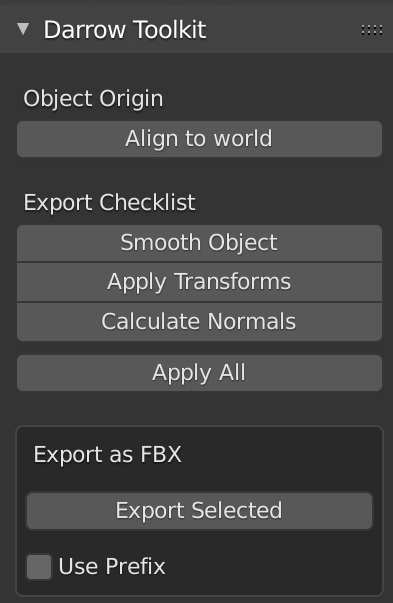
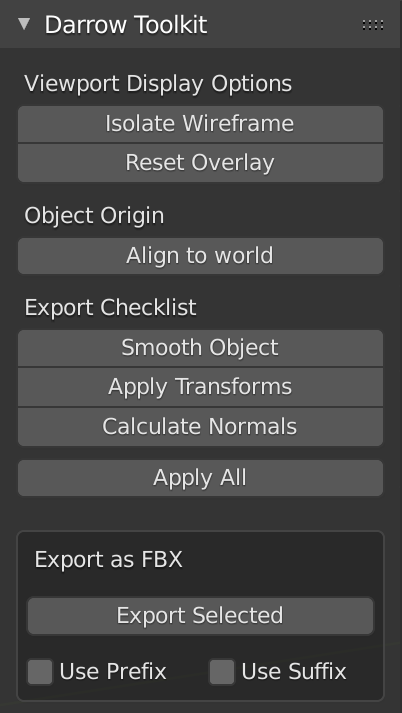
Updated for new toolkit release
Added new images, text, and gifs to showcase the new features.
Additionally, the "download" button now takes the user to the github repo.

diff --git a/index.html b/index.html
@@ -14,17 +14,14 @@
 	
 	<nav class="navbar">
 	   <h2 style="float:center">Darrow Toolkit: Blender</h2>
-
 	</nav>
 
 
 <div class="jumbotron">
   <div class="container">
-  
 	 <p>For Blender 2.8 +</p>
-    <h1>Export Helper</h1>      
-    <div class="box"><a href="https://github.com/BlakeDarrow/darrow_toolkit/blob/main/Darrow_Toolkit/Packaged/darrow_toolkit_0-6.zip?raw=true" target="_blank"><p>Download</p></a></div>
-	
+    <h1>Darrow Toolkit</h1>      
+    <div class="box"><a href="https://github.com/BlakeDarrow/darrow_toolkit" target="_blank"><p>Download</p></a></div>
   </div>
 </div>
 
@@ -32,7 +29,7 @@
 	<div class="col-md-12 col-lg-6">
 		<div class="duo">
 			<h1>Auto Naming</h1>
-			<p>With this simple menu addon, exporting has never been easier! Export selected mesh as an FBX, using the mesh's name as the export name- <strong>no typing required!</strong></p>
+			<p>With this simple menu addon, exporting has never been easier! Export selected mesh as an FBX, using the mesh- <strong>no typing required!</strong></p>
 		</div>
 	</div>
 	<div class="col-md-12 col-lg-6">
@@ -40,7 +37,6 @@
 			<h1>Export Checklist</h1>
 			<p>Do you sometimes forget the steps involved before you export a mesh? Now with this addon, there is a one-stop menu to remind you!</p>
 		</div>
-		
 	</div>
 	
 </div>
@@ -51,33 +47,58 @@
 <div class="jumbotron">
   <div class="container">
   <h1>Hassle Free!</h1>
-	 <p>This simple tool allows you to not worry about all those pesky settings, or even typing! All you do is select your mesh, hit "Export Selected", navigate to the file destination in the pop-up, and hit export!</p>   
-
+	 <p>This simple tool allows you to not worry about all those pesky settings, or even typing! All you do is select your mesh, hit "Export Selected", navigate to the file destination in the pop-up, and hit export!</p> 
   </div>
 </div>
+
+<div class="container2">
+	<div class="col-lg-12">
+		<div class="large">
+		<img src="pics/export_showcase.GIF" alt="viewport_overlay">
+		</div>
+	</div>
+</div>
+
+<div class="container">
+	<div class="col-lg-6">
+		<div class="duo3">
+			<h1>Wireframe Showcase</h1>
+			<p>Showcase your models with a quick wireframe overlay.</p>
+<img src="pics/viewport_overlay.GIF" alt="viewport_overlay">
+		</div>
+	</div>
+	<div class="col-lg-6">
+		<div class="duo3">
+			<h1>Export Checklist</h1>
+			<p>Never forget what you need to do before exporting again!</p>
+<img src="pics/checklist_apply.GIF" alt="viewport_overlay">
+		</div>
+	</div>
+</div>
+	
 <div class="container">
 	<div class="col-sm-12 col-md-6 col-lg-4">
 		<div class="tri">
 			<h1>Toolbar Menu</h1>
-			<p> Checklist reminder before you export.</p>
+			<p>Overview of avaible options.</p>
 <img src="pics/Menu_1.PNG" alt="Menu UI">
 		</div>
 	</div>
 	<div class="col-md-6 col-lg-4">
 		<div class="tri">
-			<h1>Blend Prefix</h1>
-			<p> Export with .blend* prefix.</p>
+			<h1>Custom Prefix</h1>
+			<p> Export with a custom prefix or the .blend* name.</p>
 <img src="pics/Menu_2.PNG" alt="Menu UI">
 		</div>
 	</div>
 	<div class="col-md-12 col-lg-4">
 		<div class="tri">
-			<h1>Custom Prefix</h1>
-			<p>Export with a custom prefix.</p>
+			<h1>Custom Suffix</h1>
+			<p>Export with a custom counting suffix.</p>
 <img src="pics/Menu_3.PNG" alt="Menu UI">
 		</div>
 	</div>
-	
+
 </div>
 
 <br>

diff --git a/style.css b/style.css
@@ -114,6 +114,64 @@ body {
 		
 	}
 
+	.container2 {
+		clear: both;
+		width:100%;
+		text-align: center;
+		margin-top:60px;
+		font-family: 'Inter', sans-serif;
+	}
+
+	.container2 .large {
+		clear:both;
+		background-color: #001E42;
+		margin: auto;
+		color: white;
+		width: 70%;
+		text-align: center;
+		padding: 5px;
+		margin-top: 25px;
+		margin-bottom: 50px;
+	}
+
+	.container2 .large img {
+		clear:both;
+		width: 100%;
+		height: auto;
+		margin: auto;
+		text-align: center;
+		padding: 15px;
+		word-wrap: break-word;
+	}
+	
+
+
+.container2 .large h1 {
+		clear:both;
+		background-color: #001E42;
+		margin: auto;
+		color: white;
+		width: 100%;
+		text-align: center;
+		padding: 25px;
+		font-family: 'Inter', sans-serif;
+		font-weight: 500;
+		margin-bottom: 10px;
+		font-size:40px;
+	}
+	
+.container2 .large p {
+		clear:both;
+		background-color: #001E42;
+		margin: auto;
+		color: white;
+		width: 100%;
+		text-align: center;
+		font-family: 'Inter', sans-serif;
+		font-weight: 500;
+		font-size:15px;
+	}
+
 .container {
 	clear: both;
 	width:100%;
@@ -129,7 +187,6 @@ body {
 	font-family: 'Inter', sans-serif;
 	font-weight: 700;
 	font-size: 70px;
-	
 }
 
 .container .box {
@@ -203,6 +260,54 @@ body {
 		font-family: 'Inter', sans-serif;
 		font-weight: 500;
 
+		font-size:15px;
+	}
+	
+	.container .duo3 {
+		clear:both;
+		background-color: #001E42;
+		margin: auto;
+		color: white;
+		width: 100%;
+		text-align: center;
+		padding: 5px;
+		margin-top: 25px;
+		margin-bottom: 50px;
+	}
+
+	.container .duo3 img {
+		clear:both;
+		width: 100%;
+		height: auto;
+		margin: auto;
+		text-align: center;
+		padding: 15px;
+		word-wrap: break-word;
+	}
+	
+.container .duo3 h1 {
+		clear:both;
+		background-color: #001E42;
+		margin: auto;
+		color: white;
+		width: 100%;
+		text-align: center;
+		padding: 25px;
+		font-family: 'Inter', sans-serif;
+		font-weight: 500;
+		margin-bottom: 10px;
+		font-size:40px;
+	}
+	
+.container .duo3 p {
+		clear:both;
+		background-color: #001E42;
+		margin: auto;
+		color: white;
+		width: 100%;
+		text-align: center;
+		font-family: 'Inter', sans-serif;
+		font-weight: 500;
 		font-size:15px;
 	}
 	
